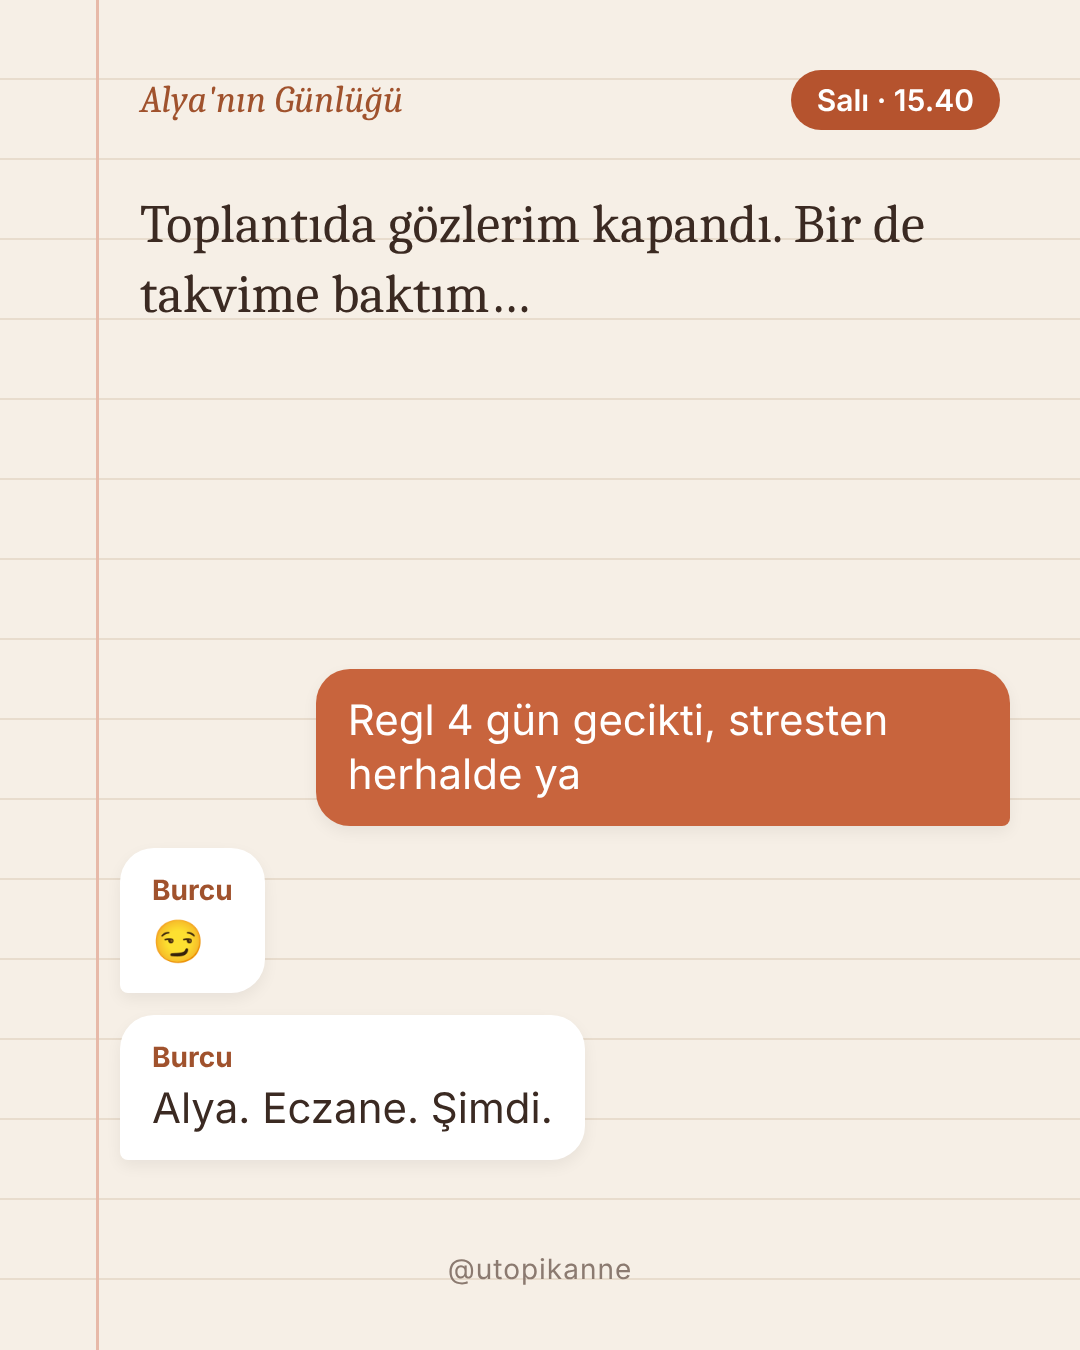
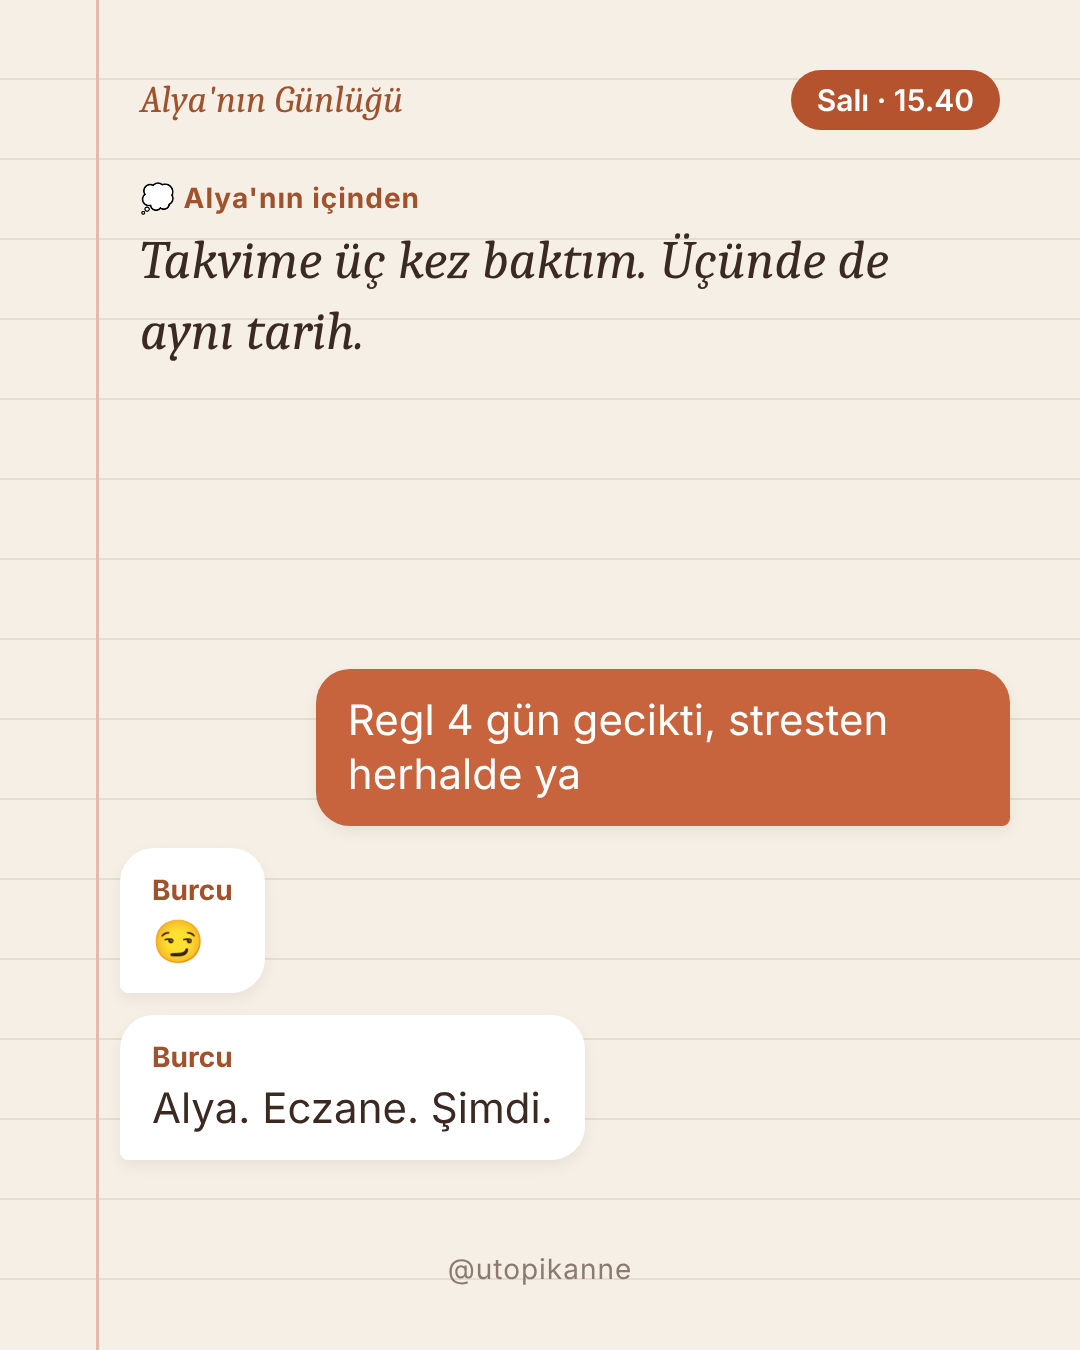
utopikanne: Alya iç ses ve mesaj ayrımı
Claude-Session: https://claude.ai/code/session_01QGX4XsF2fmNtuvzmoWMg9N

Changed region(s): [[0.1222, 0.1244, 0.8556, 0.28]]

diff --git a/araclar/alya_sohbet.py b/araclar/alya_sohbet.py
@@ -14,7 +14,8 @@ body:before{content:"";position:absolute;left:96px;top:0;bottom:0;width:3px;back
 .ust{position:absolute;top:70px;left:140px;right:80px;display:flex;justify-content:space-between;align-items:center}
 .seri{font-family:"Caladea",serif;font-style:italic;font-size:38px;color:#A0522D}
 .zaman{font-size:30px;font-weight:600;color:#fff;background:#B5532E;padding:12px 26px;border-radius:40px}
-.gunluk{position:absolute;top:190px;left:140px;right:90px;font-family:"Caladea",serif;font-size:54px;line-height:1.3;color:#3B2A22}
+.gunluk{position:absolute;top:180px;left:140px;right:90px;font-family:"Caladea",serif;font-style:italic;font-size:54px;line-height:1.3;color:#3B2A22}
+.ic{font-family:"Inter",sans-serif;font-style:normal;font-size:28px;font-weight:700;letter-spacing:1px;color:#A0522D;margin-bottom:10px}
 .sohbet{position:absolute;left:120px;right:70px;bottom:190px;display:flex;flex-direction:column;gap:22px}
 .m{max-width:78%;padding:24px 32px;border-radius:34px;font-size:42px;line-height:1.3;box-shadow:0 6px 16px #0000000f}
 .sol{align-self:flex-start;background:#fff;border-bottom-left-radius:8px}
@@ -36,7 +37,7 @@ k = d["kapak"]
 pages.append(sayfa(f'<div class="kapak"><div class="s">Alya\'nın Günlüğü</div><div class="t">{e(k.get("tur","🤰 Bir hamilelik dizisi"))}</div><div class="b">BÖLÜM {d["bolum"]}</div><h1>{e(k["baslik"])}</h1><div class="k">{e(k.get("alt","Kaydır →"))}</div></div>'))
 for s in d["sayfalar"]:
     g = f'<div class="ust"><div class="seri">Alya\'nın Günlüğü</div><div class="zaman">{e(s["zaman"])}</div></div>'
-    if s.get("gunluk"): g += f'<div class="gunluk">{e(s["gunluk"])}</div>'
+    if s.get("gunluk"): g += f'<div class="gunluk"><div class="ic">💭 Alya\'nın içinden</div>{e(s["gunluk"])}</div>'
     if s.get("mesajlar"):
         g += '<div class="sohbet">' + "".join(
             f'<div class="m sag">{e(m["yazi"])}</div>' if m["kim"] == "Alya" else f'<div class="m sol"><div class="kim">{e(m["kim"])}</div>{e(m["yazi"])}</div>'
